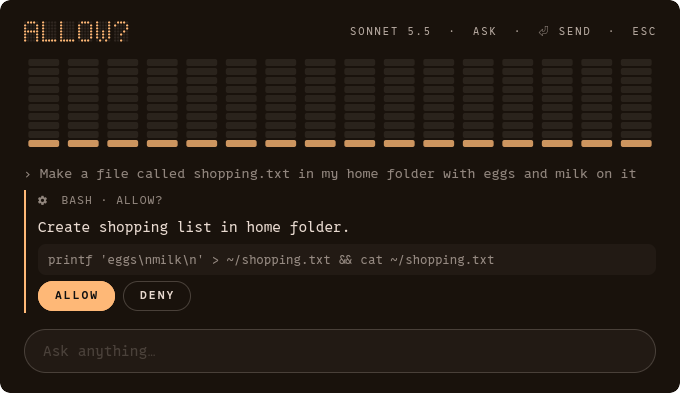
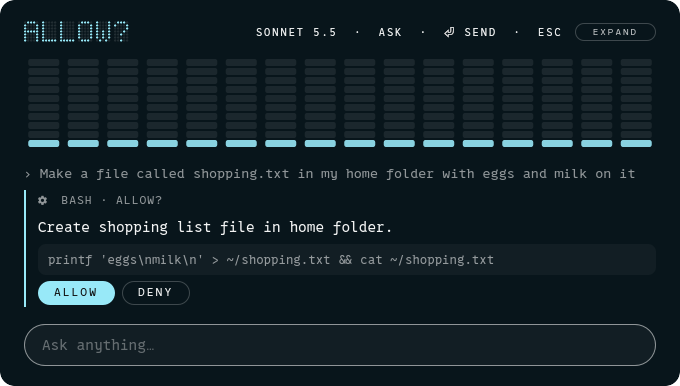
README: macOS install, keys and paths; new screenshots
The README covered Linux only. It now has a Homebrew install section,
the Mac's keys (Option+A, Cmd in the popup), how the menu-bar fez
works, a table of where settings, memory, models and the log are kept
on each platform, and updating/uninstalling with brew. Screenshots are
retaken (the reply shows its speaker), and the tray image adds the fez.
DEVELOPING.md covers the macOS release step and the offscreen
screenshot recipe.

Claude-Session: https://claude.ai/code/session_01MRAvGiYnQYzezApZ3vuKor

diff --git a/README.md b/README.md
@@ -1,8 +1,8 @@
 # Fishsticks & Custard
 
-A voice assistant for your Hyprland desktop. Say *"fishsticks and custard"*, press a key or
-click the police box in your tray, then ask it something. It answers in a small popup and,
-if you spoke, reads the reply aloud.
+A voice assistant for your Mac or your Hyprland desktop. Say *"fishsticks and custard"*,
+press a key or click its icon in the menu bar or tray, then ask it something. It answers in
+a small popup and, if you spoke, reads the reply aloud.
 
 <p align="center"><img src="docs/images/popup-reply.png" alt="The popup showing a typed question and its reply" width="680"></p>
 
@@ -33,25 +33,60 @@ if you spoke, reads the reply aloud.
 - [Conversations and memory](#conversations-and-memory)
 - [Bluetooth headsets](#bluetooth-headsets)
 - [Privacy](#privacy)
-- [Settings](#settings)
+- [Settings](#settings) and [where things are kept](#where-things-are-kept)
 - [Troubleshooting](#troubleshooting)
 - [Updating and uninstalling](#updating-and-uninstalling)
 
 ## What you need
 
-- **Arch Linux with Hyprland.** Other Wayland compositors may work, but it's made for
-  Hyprland. It doesn't run on X11.
-- **A system tray** for the icon, such as Waybar's `tray` module.
+- **A Mac with Apple Silicon** (M1 or newer) on macOS 13 Ventura or later, with
+  [Homebrew](https://brew.sh). Speech recognition runs on the Mac's GPU.
+- **Or Arch Linux with Hyprland.** Other Wayland compositors may work, but it's made for
+  Hyprland. It doesn't run on X11. You also need a system tray for the icon, such as
+  Waybar's `tray` module.
 - **An account with one of the agents** (see [Choosing an agent](#choosing-an-agent)).
   Claude Code is the default. OpenCode needs no account at all.
 - **For voice:** a microphone, and speakers or headphones. Typing works without either.
-- **About 700 MB of disk** for the speech models.
-- **A graphics card with Vulkan drivers** makes speech recognition fast: AMD
+- **About 900 MB of disk** for the speech models.
+- **On Linux, a graphics card with Vulkan drivers** makes speech recognition fast: AMD
   (`vulkan-radeon`), Intel (`vulkan-intel`) or NVIDIA (`nvidia-utils`, or `vulkan-nouveau`
   with the open driver). Without one it runs on the CPU, which takes several seconds per
   question. The log says which it's using.
 
 ## Install
+
+### macOS
+
+1. **Install it with Homebrew:**
+
+   ```sh
+   brew install --cask manofjello/tap/fishsticks-and-custard
+   ```
+
+2. **Install an agent and sign in.** For Claude, install the
+   [Claude Code](https://claude.com/claude-code) CLI and run `claude` once to sign in. For
+   the others, see [Choosing an agent](#choosing-an-agent).
+
+3. **Download the speech models** (about 900 MB), then check them:
+
+   ```sh
+   fsc fetch-models
+   /Applications/FishsticksAndCustard.app/Contents/MacOS/fscd --self-test
+   ```
+
+   The self-test speaks a sentence out loud and transcribes it back, so turn your
+   volume up.
+
+4. **Start it.** Open **Fishsticks & Custard** from Applications or Spotlight. A fez
+   appears in the menu bar. The first time you talk to it, macOS asks whether it may use
+   the microphone: allow it.
+
+5. **To start it when you log in,** add it in System Settings › General › Login Items.
+
+The app isn't signed with an Apple developer ID, so after an update macOS may ask for
+microphone access again.
+
+### Arch Linux
 
 1. **Trust the package signing key:**
 
@@ -101,6 +136,9 @@ if you spoke, reads the reply aloud.
 
 7. **Start it.** Run `fscd`, or open **Fishsticks & Custard** from your app launcher. The
    police box appears in your tray.
+
+Below, **Super+A** and **Super+Shift+A** are the Linux keys. On a Mac they're
+**Option+A** and **Option+Shift+A**, and the popup's **Ctrl** keys are **Cmd**.
 
 ## Getting started
 
@@ -159,11 +197,13 @@ Opening a page asks because a page can contain instructions aimed at the agent. 
 
 ## The tray icon
 
-<p align="center"><img src="docs/images/tray-icons.png" alt="Tray icons: police box when ready, with a red dot while recording, dimmed when the wake word is muted, and the fishbone alternative" width="600"></p>
+<p align="center"><img src="docs/images/tray-icons.png" alt="Tray icons: police box when ready, with a red dot while recording, dimmed when the wake word is muted; the fishbone alternative; and the fez used in the macOS menu bar" width="780"></p>
 
-Click the icon to show or hide the popup. A red dot means the microphone is recording.
-If you prefer, a fishbone icon is available as well (see [Settings](#settings)).
-Right-click the icon for its menu:
+On Linux, click the icon to show or hide the popup, and right-click it for its menu. On a
+Mac the icon is a fez in the menu bar, and clicking it opens the menu. A red dot means the
+microphone is recording. A fishbone icon is available as well (see [Settings](#settings)).
+
+The menu:
 
 | Menu item | What it does |
 |---|---|
@@ -185,13 +225,17 @@ Changes made from the menu take effect straight away and are saved.
 
 | Key | What it does |
 |---|---|
-| **Super+A** | Opens the popup for typing. |
-| **Super+Shift+A** | Hold to talk, or tap to talk until you stop. |
+| **Super+A** (Mac: **Option+A**) | Opens the popup for typing. |
+| **Super+Shift+A** (Mac: **Option+Shift+A**) | Hold to talk, or tap to talk until you stop. |
 | **Enter** | Sends your message. |
 | **Esc** | Hides the popup, and hangs up a voice conversation. A reply still in progress finishes as text, and you get a notification. |
 | **Ctrl+C** | Copies the text you highlighted in the popup. With nothing highlighted, stops the reply. |
 | **Ctrl+Shift+C** | Copies the whole conversation in the popup, questions and replies, as plain text. |
 | **Ctrl+N** | Starts a new conversation. |
+
+On a Mac, use **Cmd** for the **Ctrl** keys in the popup. The Mac's global keys are set in
+the `[keys]` section of the settings. Option+A normally types "å", so change them if you
+need that letter or another app (such as AeroSpace) uses them.
 
 The `fsc` command does the same from a terminal or a script. Run `fsc --help` for the
 full list.
@@ -223,9 +267,9 @@ memory of you.
 | Agent | Account | Install | Sign in |
 |---|---|---|---|
 | **Claude** (default) | Claude Pro or Max | [Claude Code](https://claude.com/claude-code) | run `claude` once |
-| **Codex** | ChatGPT | the Codex CLI and `codex-acp` (AUR `codex-acp`, or `npm i -g @agentclientprotocol/codex-acp`) | `codex login` |
+| **Codex** | ChatGPT | the Codex CLI and `codex-acp` (`npm i -g @openai/codex @agentclientprotocol/codex-acp`, or AUR `codex-acp`) | `codex login` |
 | **Antigravity** | Google | `agy` 1.5 or newer (AUR `antigravity-cli`) | `agy acp --login` |
-| **OpenCode** | none for its free models | `sudo pacman -S opencode` | `opencode auth login`, only for your own providers |
+| **OpenCode** | none for its free models | [OpenCode](https://opencode.ai) (on Arch, `sudo pacman -S opencode`) | `opencode auth login`, only for your own providers |
 
 If an agent isn't signed in, the popup tells you which command to run.
 
@@ -234,8 +278,8 @@ asks before acting. Claude's modes are Ask (the default), Accept edits, Auto and
 Codex starts in read-only, which asks before any edit, command or network use. The
 popup shows the current model and mode at the top.
 
-Codex, Antigravity and OpenCode work in a folder of their own,
-`~/.local/share/fsc/home/workspace`. They can write there freely, but they ask before
+Codex, Antigravity and OpenCode work in a folder of their own, `workspace` in the
+assistant's home (see [Where things are kept](#where-things-are-kept)). They can write there freely, but they ask before
 touching anything else of yours.
 
 Any other agent that supports the [Agent Client Protocol](https://agentclientprotocol.com)
@@ -253,8 +297,8 @@ were tested with synthetic voices only, and Vietnamese answers often weren't rec
 that way. If you speak one of them, a report of how it does for you would help. Japanese
 and Thai aren't available yet: their voices need a different speech engine.
 
-For Chinese and Korean text in the popup, install `noto-fonts-cjk`; for Hindi,
-`noto-fonts`.
+On Linux, install `noto-fonts-cjk` for Chinese and Korean text in the popup, and
+`noto-fonts` for Hindi.
 
 Pick another language from the tray's **Language** menu, or with `fsc language de`. It
 then listens for that language, speaks it, and tells the agent to reply in it.
@@ -298,7 +342,7 @@ the popup above a **NEW SESSION** line.
 Before a conversation ends, the agent updates a short list of lasting facts about you:
 your preferences, the people and things you mention, plans you're working on, anything you
 asked it to remember. It leaves out one-off questions and sensitive details. The list is
-kept in `~/.local/share/fsc/home/memory.md`, a plain text file you can read and edit.
+kept in `memory.md` in the assistant's home, a plain text file you can read and edit.
 
 - `fsc memory` shows the list.
 - `fsc forget` or **Forget memories** in the tray deletes it.
@@ -329,10 +373,11 @@ mic) for listening: choose it in the tray's **Microphone** menu.
 ## Settings
 
 The tray's **Settings…** opens [HyprCustard](https://github.com/ManofJELLO/hyprcustard) if
-you have it installed, or your settings file, `~/.config/fsc/config.toml`, in your text
-editor. If the file doesn't exist yet, it's created with every setting listed and
-commented out. Changes to the file take effect when you restart the assistant
-(`fsc quit`, then `fscd`).
+you have it installed, or your settings file, `config.toml` (see
+[Where things are kept](#where-things-are-kept)), in your text editor. If the file doesn't
+exist yet, it's created with every setting listed and commented out. Changes to the file
+take effect when you restart the assistant: `fsc quit`, then `fscd` (on a Mac, open the
+app again).
 
 Some settings you might want to change:
 
@@ -351,19 +396,28 @@ Some settings you might want to change:
 | `[voice] wake_model` | The speech model that listens for the wake phrase: `"small-q8_0"` (default) is fast. `""` uses the full model for it too, slower to notice the phrase. It's only used when it's smaller than `whisper_model`. |
 | `[agent] session_idle_minutes` | Minutes without a message before a new conversation starts. |
 
-The full list, with explanations, is in
-`/usr/share/fishsticks-and-custard/config.example.toml`.
+The settings file lists them all, with explanations (on Linux it's also at
+`/usr/share/fishsticks-and-custard/config.example.toml`).
 
-The popup follows your Qt theme's colours (qt6ct on Hyprland, as HyprCustard sets
-them) and your desktop's light or dark mode.
+On Linux the popup follows your Qt theme's colours (qt6ct on Hyprland, as HyprCustard
+sets them) and your desktop's light or dark mode. On a Mac it sits on the system's glass
+and follows its light or dark mode.
 
-**Personality:** how the assistant talks is described in
-`~/.local/share/fsc/home/persona.md`. Edit it and press **Ctrl+N** to start a
-conversation with the change.
+**Personality:** how the assistant talks is described in `persona.md` in the assistant's
+home. Edit it and press **Ctrl+N** to start a conversation with the change.
 
 **What Claude may do without asking:** your **ALWAYS** answers are saved in
-`~/.local/share/fsc/home/.claude/settings.local.json`. Remove an entry from its `allow`
+`.claude/settings.local.json` in the assistant's home. Remove an entry from its `allow`
 list to be asked again, or add one to `deny` to refuse it every time.
+
+### Where things are kept
+
+| | Linux | macOS |
+|---|---|---|
+| Settings | `~/.config/fsc/config.toml` | `~/Library/Application Support/fsc/config.toml` |
+| The assistant's home (memory, persona, workspace) | `~/.local/share/fsc/home` | `~/Library/Application Support/fsc/home` |
+| Speech models | `~/.local/share/fsc/models` | `~/Library/Application Support/fsc/models` |
+| Log | `~/.local/state/fsc/fscd.log` | `~/Library/Application Support/fsc/state/fscd.log` |
 
 ## Troubleshooting
 
@@ -374,22 +428,32 @@ list to be asked again, or add one to `deny` to refuse it every time.
 - **It cuts you off mid-sentence:** raise `end_silence_ms` in the `[voice]` settings.
 - **It wakes up by accident:** choose a longer or more unusual phrase with `fsc wake`.
 - **Nothing happens when you press Super+A:** check that the Hyprland lines are in your
-  config, and that the assistant is running (`fsc status`).
-- **To see what it's doing:** read its log, `~/.local/state/fsc/fscd.log`. The log from
-  the run before is kept as `fscd.log.old`, which is the one to look at after a crash or
-  freeze.
+  config, and that the assistant is running (`fsc status`). On a Mac, check that no other
+  app uses Option+A, or choose other keys in `[keys]`.
+- **On a Mac, it can't find your agent:** it looks where your shell does (your login
+  shell's PATH). Check that `claude` (or your agent) runs in a new Terminal window.
+- **To see what it's doing:** read its log, `fscd.log` (see
+  [Where things are kept](#where-things-are-kept)). The log from the run before is kept as
+  `fscd.log.old`, which is the one to look at after a crash or freeze.
 - **Reporting a problem:** [open an issue](https://github.com/ManofJELLO/fishsticks-and-custard/issues/new/choose)
   and attach the log. It doesn't hold the conversation, but it does note what it heard
   around the wake phrase, so look it over before you post it.
 
 ## Updating and uninstalling
 
-Updates arrive with your normal `sudo pacman -Syu`. Afterwards, restart the assistant
-with `fsc quit`, then `fscd`. If the update notes ask for new speech models, run
-`fsc fetch-models`.
+**macOS:** update with `brew update && brew upgrade --cask fishsticks-and-custard`, then
+quit it from the menu and open it again. To uninstall, run
+`brew uninstall --cask fishsticks-and-custard`; add `--zap` to remove your settings,
+memory, models and log as well.
 
-To uninstall, run `sudo pacman -Rns fishsticks-and-custard`. Your settings and data stay
-in `~/.config/fsc` and `~/.local/share/fsc`. Delete those folders to remove them too.
+**Arch Linux:** updates arrive with your normal `sudo pacman -Syu`. Afterwards, restart
+the assistant with `fsc quit`, then `fscd`. To uninstall, run
+`sudo pacman -Rns fishsticks-and-custard`. Your settings and data stay in
+`~/.config/fsc` and `~/.local/share/fsc`. Delete those folders to remove them too.
+
+If the update notes ask for new speech models, run `fsc fetch-models`. Version 0.10.0
+adds a small model for the wake phrase (about 250 MB); until you fetch it, the wake phrase
+is heard by the full model, more slowly.
 
 ---
 

diff --git a/docs/DEVELOPING.md b/docs/DEVELOPING.md
@@ -88,14 +88,27 @@ Fix anything marked FAIL and read the WARNs. Then rerun with `--record` to save 
 tested, and commit `tested.json` with the release.
 
 Bump `version` in `Cargo.toml` and `pkgver` in `packaging/arch/PKGBUILD` (they must match),
+run `cargo update -w`, regenerate `packaging/arch/.SRCINFO` (`makepkg --printsrcinfo`),
 commit, then `git tag vX.Y.Z && git push --tags`. The `package` workflow builds, signs and
 publishes it to the `repo` release.
+
+The same tag starts the `macos-app` workflow, which builds the `.app`, zips it and attaches
+the zip and its `.sha256` to the tag's GitHub release (a tag with a suffix, like
+`v0.10.0-beta.1`, makes a pre-release and skips the Linux package). Then set `version` and
+`sha256` in `Casks/fishsticks-and-custard.rb` in
+[ManofJELLO/homebrew-tap](https://github.com/ManofJELLO/homebrew-tap) (the template is
+`packaging/homebrew/`) and push it.
 
 ## Screenshots
 
 The README images in `docs/images` come from a separate test instance of `fscd`, so
-they never show a real conversation. It runs with its own
-`XDG_CONFIG_HOME` (wake word off, `speak = "never"`) and `XDG_DATA_HOME`, a short
-`XDG_RUNTIME_DIR`, and an empty `PIPEWIRE_RUNTIME_DIR`. `fsc show` puts the popup on
-screen without taking focus. Each image is a `grim -g` capture of the window's geometry,
-with the corners rounded in ImageMagick.
+they never show your own conversations or settings. It runs with its own
+`XDG_CONFIG_HOME` (wake word off, `speak = "never"`, plus a copy of your `qt6ct` folder
+for the colours) and `XDG_DATA_HOME`, a short `XDG_RUNTIME_DIR`, an empty
+`PIPEWIRE_RUNTIME_DIR`, and `QT_QPA_PLATFORM=offscreen QT_QPA_PLATFORMTHEME=qt6ct
+FSC_SHOT=popup.png`, so nothing appears on screen. `fsc show` and `fsc ask "…"` fill the
+popup; `fsc hide` then `fsc show` fits it to what's in it before the capture. The corners
+are rounded in ImageMagick.
+
+`fscd --dump-icons DIR` writes the tray icons for `tray-icons.png`. The macOS picture is a
+screenshot taken on a Mac.
